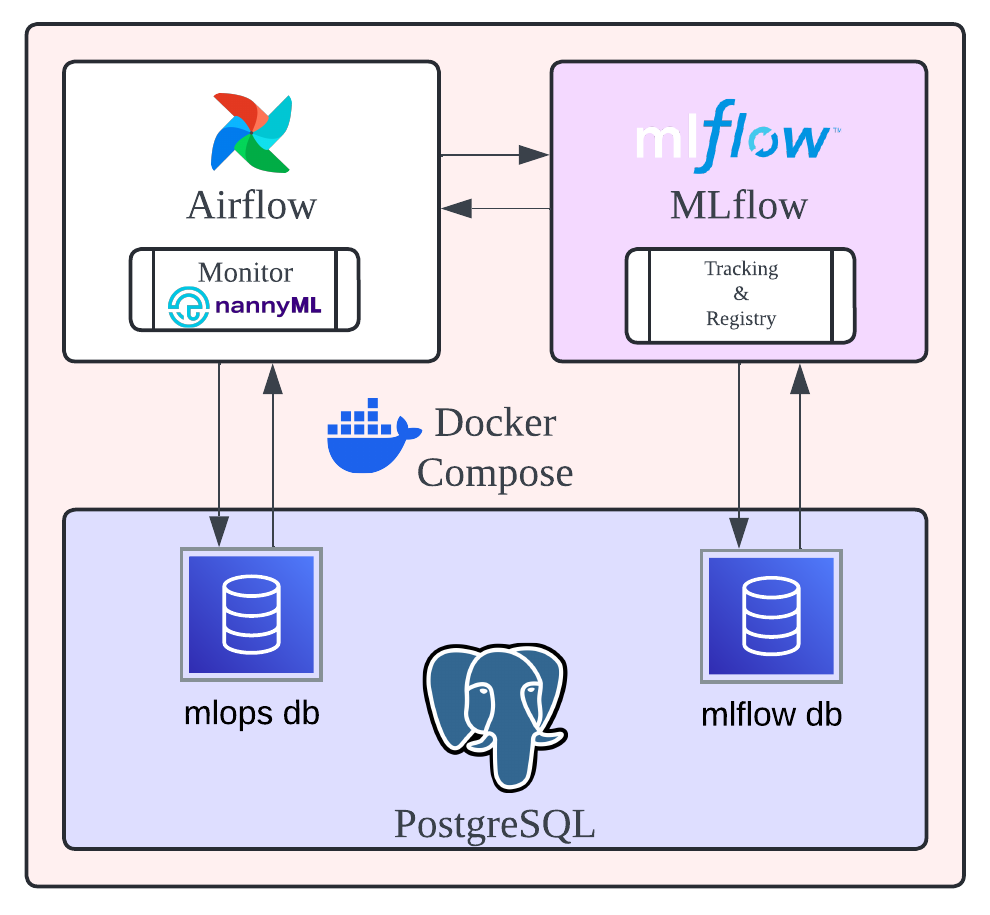
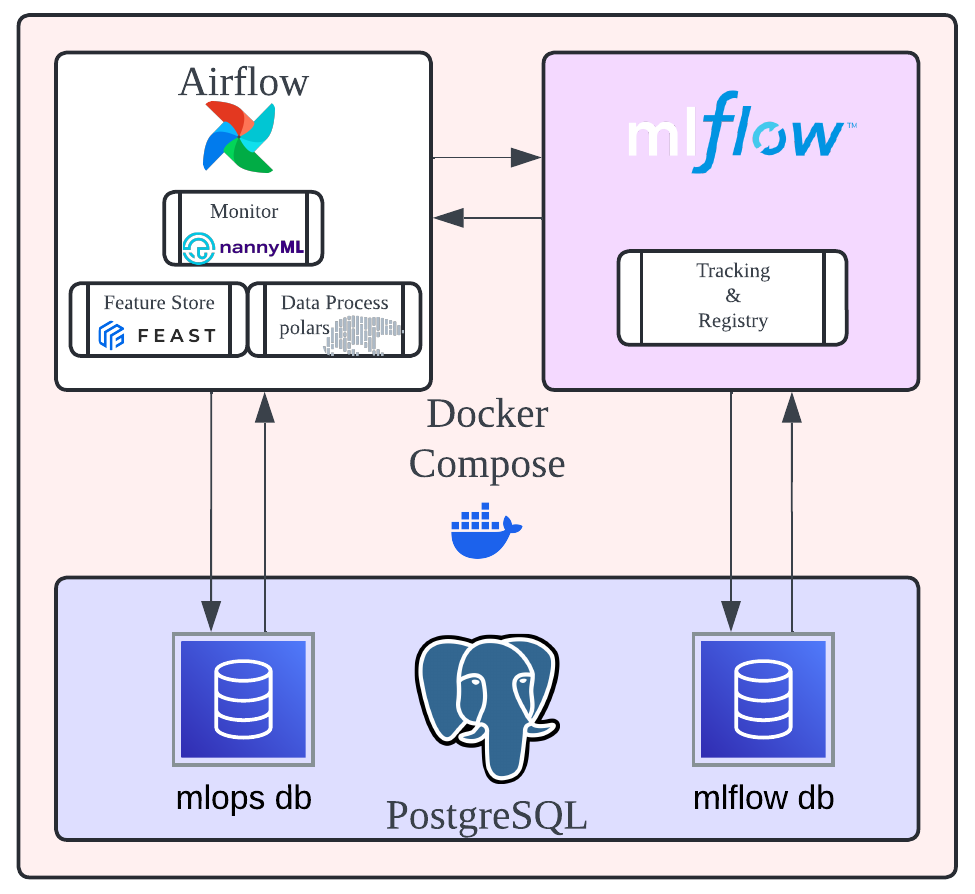
add feast and fix postgres directory error

Changed region(s): [[0.0, 0.0, 0.9846, 0.9966], [0.5538, 0.2114, 0.5846, 0.2718]]

diff --git a/mnt/airflow/feast/example_repo.py b/mnt/airflow/feast/example_repo.py
@@ -1,0 +1,140 @@
+# This is an example feature definition file
+
+from datetime import timedelta
+
+import pandas as pd
+import polars as pl
+
+from feast import (
+    Entity,
+    FeatureService,
+    FeatureView,
+    Field,
+    FileSource,
+    PushSource,
+    RequestSource,
+)
+from feast.on_demand_feature_view import on_demand_feature_view
+from feast.types import Float32, Float64, Int64
+
+# Define an entity for the driver. You can think of an entity as a primary key used to
+# fetch features.
+driver = Entity(name="driver", join_keys=["driver_id"])
+
+# Read data from parquet files. Parquet is convenient for local development mode. For
+# production, you can use your favorite DWH, such as BigQuery. See Feast documentation
+# for more info.
+driver_stats_source = FileSource(
+    name="driver_hourly_stats_source",
+    path="%PARQUET_PATH%",
+    timestamp_field="event_timestamp",
+    created_timestamp_column="created",
+)
+
+# Our parquet files contain sample data that includes a driver_id column, timestamps and
+# three feature column. Here we define a Feature View that will allow us to serve this
+# data to our model online.
+driver_stats_fv = FeatureView(
+    # The unique name of this feature view. Two feature views in a single
+    # project cannot have the same name
+    name="driver_hourly_stats",
+    entities=[driver],
+    ttl=timedelta(days=1),
+    # The list of features defined below act as a schema to both define features
+    # for both materialization of features into a store, and are used as references
+    # during retrieval for building a training dataset or serving features
+    schema=[
+        Field(name="conv_rate", dtype=Float32),
+        Field(name="acc_rate", dtype=Float32),
+        Field(name="avg_daily_trips", dtype=Int64, description="Average daily trips"),
+    ],
+    online=True,
+    source=driver_stats_source,
+    # Tags are user defined key/value pairs that are attached to each
+    # feature view
+    tags={"team": "driver_performance"},
+)
+
+# Define a request data source which encodes features / information only
+# available at request time (e.g. part of the user initiated HTTP request)
+input_request = RequestSource(
+    name="vals_to_add",
+    schema=[
+        Field(name="val_to_add", dtype=Int64),
+        Field(name="val_to_add_2", dtype=Int64),
+    ],
+)
+
+
+# Define an on demand feature view which can generate new features based on
+# existing feature views and RequestSource features
+@on_demand_feature_view(
+    sources=[driver_stats_fv, input_request],
+    schema=[
+        Field(name="conv_rate_plus_val1", dtype=Float64),
+        Field(name="conv_rate_plus_val2", dtype=Float64),
+    ],
+)
+def transformed_conv_rate(inputs: pd.DataFrame) -> pd.DataFrame:
+    df = pd.DataFrame()
+    df["conv_rate_plus_val1"] = inputs["conv_rate"] + inputs["val_to_add"]
+    df["conv_rate_plus_val2"] = inputs["conv_rate"] + inputs["val_to_add_2"]
+    return df
+
+
+# This groups features into a model version
+driver_activity_v1 = FeatureService(
+    name="driver_activity_v1",
+    features=[
+        driver_stats_fv[["conv_rate"]],  # Sub-selects a feature from a feature view
+        transformed_conv_rate,  # Selects all features from the feature view
+    ],
+)
+driver_activity_v2 = FeatureService(
+    name="driver_activity_v2", features=[driver_stats_fv, transformed_conv_rate]
+)
+
+# Defines a way to push data (to be available offline, online or both) into Feast.
+driver_stats_push_source = PushSource(
+    name="driver_stats_push_source",
+    batch_source=driver_stats_source,
+)
+
+# Defines a slightly modified version of the feature view from above, where the source
+# has been changed to the push source. This allows fresh features to be directly pushed
+# to the online store for this feature view.
+driver_stats_fresh_fv = FeatureView(
+    name="driver_hourly_stats_fresh",
+    entities=[driver],
+    ttl=timedelta(days=1),
+    schema=[
+        Field(name="conv_rate", dtype=Float32),
+        Field(name="acc_rate", dtype=Float32),
+        Field(name="avg_daily_trips", dtype=Int64),
+    ],
+    online=True,
+    source=driver_stats_push_source,  # Changed from above
+    tags={"team": "driver_performance"},
+)
+
+
+# Define an on demand feature view which can generate new features based on
+# existing feature views and RequestSource features
+@on_demand_feature_view(
+    sources=[driver_stats_fresh_fv, input_request],  # relies on fresh version of FV
+    schema=[
+        Field(name="conv_rate_plus_val1", dtype=Float64),
+        Field(name="conv_rate_plus_val2", dtype=Float64),
+    ],
+)
+def transformed_conv_rate_fresh(inputs: pd.DataFrame) -> pd.DataFrame:
+    df = pd.DataFrame()
+    df["conv_rate_plus_val1"] = inputs["conv_rate"] + inputs["val_to_add"]
+    df["conv_rate_plus_val2"] = inputs["conv_rate"] + inputs["val_to_add_2"]
+    return df
+
+
+driver_activity_v3 = FeatureService(
+    name="driver_activity_v3",
+    features=[driver_stats_fresh_fv, transformed_conv_rate_fresh],
+)

diff --git a/mnt/airflow/dags/sample_mlflow_dag.py b/mnt/airflow/dags/sample_mlflow_dag.py
@@ -28,10 +28,10 @@ def load_data():
     now = datetime.now()
     os.makedirs(f"/opt/airflow/dags/files/{now.strftime('%m-%d-%Y %H:%M:%S')}", exist_ok=True)
     
-    X_train.to_csv(f"/opt/airflow/dags/files/{now.strftime('%m-%d-%Y %H:%M:%S')}/X_train.csv", index=False)
-    X_test.to_csv(f"/opt/airflow/dags/files/{now.strftime('%m-%d-%Y %H:%M:%S')}/X_test.csv", index=False)
-    y_train.to_csv(f"/opt/airflow/dags/files/{now.strftime('%m-%d-%Y %H:%M:%S')}/y_train.csv", index=False)
-    y_test.to_csv(f"/opt/airflow/dags/files/{now.strftime('%m-%d-%Y %H:%M:%S')}/y_test.csv", index=False)
+    X_train.to_parquet(f"/opt/airflow/dags/files/{now.strftime('%m-%d-%Y %H:%M:%S')}/X_train.parquet", index=False)
+    X_test.to_parquet(f"/opt/airflow/dags/files/{now.strftime('%m-%d-%Y %H:%M:%S')}/X_test.parquet", index=False)
+    y_train.to_frame(name='y').to_parquet(f"/opt/airflow/dags/files/{now.strftime('%m-%d-%Y %H:%M:%S')}/y_train.parquet", index=False)
+    y_test.to_frame(name='y').to_parquet(f"/opt/airflow/dags/files/{now.strftime('%m-%d-%Y %H:%M:%S')}/y_test.parquet", index=False)
 
 def train_model():
 
@@ -46,10 +46,10 @@ def train_model():
     logging.exception(latest)
     logging.exception(list_of_files)
 
-    X_train = pd.read_csv(latest + "/X_train.csv")
-    X_test = pd.read_csv(latest + "/X_test.csv")
-    y_train = pd.read_csv(latest + "/y_train.csv")
-    y_test = pd.read_csv(latest + "/y_test.csv")
+    X_train = pd.read_parquet(latest + "/X_train.parquet")
+    X_test = pd.read_parquet(latest + "/X_test.parquet")
+    y_train = pd.read_parquet(latest + "/y_train.parquet")
+    y_test = pd.read_parquet(latest + "/y_test.parquet")
     
     model = cb.CatBoostClassifier()
     model.fit(X_train, y_train)

diff --git a/README.md b/README.md
@@ -10,7 +10,7 @@ For organizations seeking a comprehensive data pipeline and MLOps environment, t
 
 ## System Diagram
 
-<div style="width: 30%; height: 30%">
+<div style="width: 20%; height: 20%">
   
   ![system_diagram](images/mlops-onpremises-slim.png)
   
